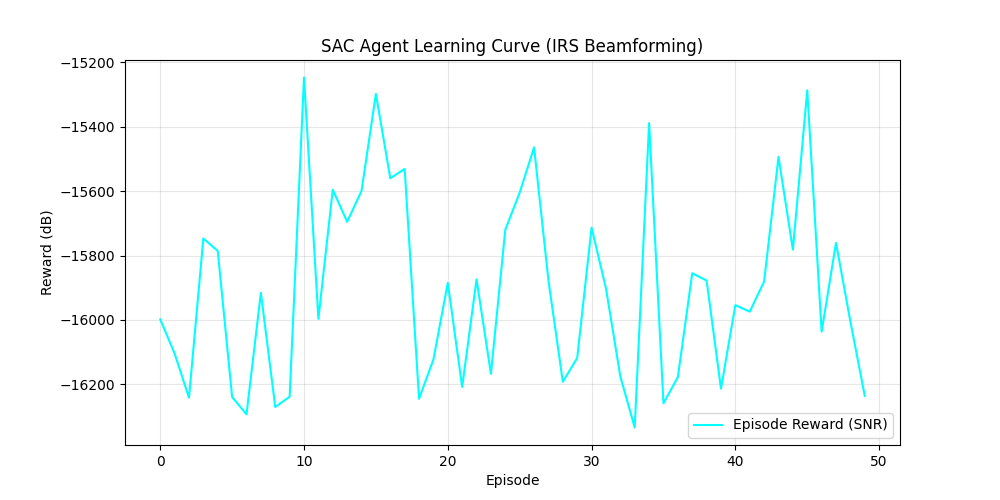
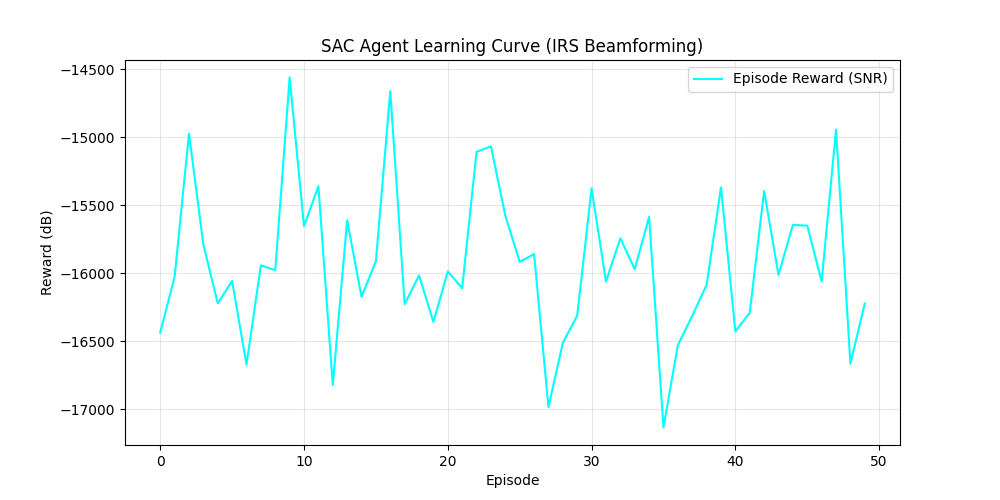
Fix: Make small-scale fading static per episode to stabilize SAC learning

diff --git a/python/physics/channel_model.py b/python/physics/channel_model.py
@@ -78,6 +78,15 @@ class ChannelEnvironment:
         phase = k * (dx * direction[0] + dz * direction[2])
         return np.exp(-1j * phase).flatten()
 
+    def reset_fading(self, irs_elements_N):
+        """
+        Resets the small-scale fading (NLoS) realizations for the environment.
+        Should be called at the beginning of an episode to simulate a static block-fading room.
+        """
+        self.h_nlos_bs = (np.random.randn(irs_elements_N) + 1j * np.random.randn(irs_elements_N)) / np.sqrt(2)
+        self.h_nlos_ue = (np.random.randn(irs_elements_N) + 1j * np.random.randn(irs_elements_N)) / np.sqrt(2)
+        self.h_d_nlos = (np.random.randn() + 1j * np.random.randn()) / np.sqrt(2)
+
     def get_channels(self, irs_elements_N):
         """
         Returns the G matrix (BS->IRS) and h_r vector (IRS->UE).
@@ -96,11 +105,12 @@ class ChannelEnvironment:
         
         # 3. Add slight fading (Rician with high K factor)
         K = 10.0 # 10dB
-        h_nlos_bs = (np.random.randn(irs_elements_N) + 1j * np.random.randn(irs_elements_N)) / np.sqrt(2)
-        h_nlos_ue = (np.random.randn(irs_elements_N) + 1j * np.random.randn(irs_elements_N)) / np.sqrt(2)
         
-        fading_bs_irs = np.sqrt(K / (K + 1)) * a_bs_irs + np.sqrt(1 / (K + 1)) * h_nlos_bs
-        fading_irs_ue = np.sqrt(K / (K + 1)) * a_irs_ue + np.sqrt(1 / (K + 1)) * h_nlos_ue
+        if not hasattr(self, 'h_nlos_bs') or len(self.h_nlos_bs) != irs_elements_N:
+            self.reset_fading(irs_elements_N)
+            
+        fading_bs_irs = np.sqrt(K / (K + 1)) * a_bs_irs + np.sqrt(1 / (K + 1)) * self.h_nlos_bs
+        fading_irs_ue = np.sqrt(K / (K + 1)) * a_irs_ue + np.sqrt(1 / (K + 1)) * self.h_nlos_ue
         
         # 4. Combine
         G = np.sqrt(pl_bs_irs) * fading_bs_irs
@@ -109,6 +119,6 @@ class ChannelEnvironment:
         # Direct link (BS -> UE) - assuming heavily blocked
         d_bs_ue = self._distance(self.bs_pos, self.ue_pos)
         pl_bs_ue = self.calculate_free_space_path_loss(d_bs_ue) * 1e-6 # 60dB blockage penalty
-        h_d = np.sqrt(pl_bs_ue) * (np.random.randn() + 1j * np.random.randn()) / np.sqrt(2)
+        h_d = np.sqrt(pl_bs_ue) * self.h_d_nlos
         
         return G, h_r, h_d

diff --git a/python/drl/irs_env.py b/python/drl/irs_env.py
@@ -44,6 +44,9 @@ class IRSEnv(gym.Env):
             np.random.uniform(20, self.room_size)
         ])
         
+        # Reset the environment fading for the new episode
+        self.env_model.reset_fading(self.N)
+        
         return self._get_obs(), {}
 
     def _get_obs(self):